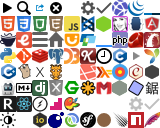
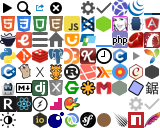
Add Rust documentation

Changed region(s): [[0.375, 0.5, 0.5, 0.625]]

diff --git a/assets/stylesheets/global/_icons.scss b/assets/stylesheets/global/_icons.scss
@@ -65,7 +65,7 @@
 ._icon-go:before            { background-position: -1rem -4rem; }
 ._icon-express:before       { background-position: -2rem -4rem; }
 ._icon-grunt:before         { background-position: -3rem -4rem; }
-
+._icon-rust:before          { background-position: -4rem -4rem; @extend %darkIconFix !optional; }
 ._icon-laravel:before       { background-position: -5rem -4rem; }
 ._icon-haskell:before       { background-position: -6rem -4rem; }
 ._icon-requirejs:before     { background-position: -7rem -4rem; }

diff --git a/assets/stylesheets/pages/_rust.scss b/assets/stylesheets/pages/_rust.scss
@@ -1,0 +1,10 @@
+._rust {
+  @extend %simple;
+
+  h4 { @extend %block-label; }
+  .docblock { margin-left: 1em; }
+
+  div.stability { margin-bottom: 1em; }
+  em.stab, span.stab { @extend %label; }
+  em.stab.unstable, span.stab.unstable { @extend %label-orange; }
+}

diff --git a/assets/stylesheets/application-dark.css.scss b/assets/stylesheets/application-dark.css.scss
@@ -62,6 +62,7 @@
         'pages/requirejs',
         'pages/rethinkdb',
         'pages/rfc',
+        'pages/rust',
         'pages/socketio',
         'pages/sphinx',
         'pages/underscore',

diff --git a/assets/stylesheets/application.css.scss b/assets/stylesheets/application.css.scss
@@ -62,6 +62,7 @@
         'pages/requirejs',
         'pages/rethinkdb',
         'pages/rfc',
+        'pages/rust',
         'pages/socketio',
         'pages/sphinx',
         'pages/underscore',

diff --git a/lib/docs/filters/rust/entries.rb b/lib/docs/filters/rust/entries.rb
@@ -1,0 +1,56 @@
+module Docs
+  class Rust
+    class EntriesFilter < Docs::EntriesFilter
+      def get_name
+        if slug.start_with?('book')
+          at_css("#toc a[href='#{File.basename(slug)}']").content
+        elsif slug.start_with?('reference')
+          'Reference'
+        else
+          name = at_css('h1.fqn .in-band').content.remove(/\A.+\s/)
+          mod = slug.split('/').first
+          name.prepend("#{mod}::") unless name.start_with?(mod)
+          name
+        end
+      end
+
+      PRIMITIVE_SLUG = /\A(\w+)\/(primitive)\./
+
+      def get_type
+        if slug.start_with?('book')
+          'Guide'
+        elsif slug.start_with?('reference')
+          'Reference'
+        else
+          path = name.split('::')
+          heading = at_css('h1.fqn .in-band').content.strip
+          if path.length > 2 || (path.length == 2 && (heading.start_with?('Module') || heading.start_with?('Primitive')))
+            path[0..1].join('::')
+          else
+            path[0]
+          end
+        end
+      end
+
+      def additional_entries
+        if slug.start_with?('book')
+          []
+        elsif slug.start_with?('reference')
+          css('#TOC > ul > li > a', '#TOC > ul > li > ul > li > a').map do |node|
+            name = node.content
+            name.sub! %r{(\d)\ }, '\1. '
+            name.sub! '10.0.', '10.'
+            id = node['href'].remove('#')
+            [name, id]
+          end
+        else
+          css('#methods + * + div > .method', '#required-methods + div > .method', '#provided-methods + div > .method').map do |node|
+            name = node.at_css('.fnname').content
+            name.prepend "#{self.name}::"
+            [name, node['id']]
+          end
+        end
+      end
+    end
+  end
+end

diff --git a/lib/docs/filters/rust/clean_html.rb b/lib/docs/filters/rust/clean_html.rb
@@ -1,0 +1,63 @@
+module Docs
+  class Rust
+    class CleanHtmlFilter < Filter
+      def call
+        if slug.start_with?('book')
+          book
+        elsif slug.start_with?('reference')
+          reference
+        else
+          api
+        end
+
+        css('.rusttest', 'hr').remove
+
+        css('.docblock > h1').each { |node| node.name = 'h4' }
+        css('h2.section-header').each { |node| node.name = 'h3' }
+        css('h1.section-header').each { |node| node.name = 'h2' }
+
+        css('> .impl-items', '> .docblock').each do |node|
+          node.before(node.children).remove
+        end
+
+        css('h1 > a', 'h2 > a', 'h3 > a', 'h4 > a', 'h5 > a').each do |node|
+          node.before(node.children).remove
+        end
+
+        css('pre > code').each do |node|
+          node.parent['class'] = node['class']
+          node.before(node.children).remove
+        end
+
+        css('pre').each do |node|
+          node.content = node.content
+        end
+
+        doc
+      end
+
+      def book
+        @doc = at_css('#page')
+      end
+
+      def reference
+        css('#versioninfo').remove
+      end
+
+      def api
+        @doc = at_css('#main')
+
+        css('.toggle-wrapper').remove
+
+        css('h1.fqn').each do |node|
+          node.content = node.at_css('.in-band').content
+        end
+
+        css('.stability .stab').each do |node|
+          node.name = 'span'
+          node.content = node.content
+        end
+      end
+    end
+  end
+end

diff --git a/lib/docs/scrapers/rust.rb b/lib/docs/scrapers/rust.rb
@@ -1,0 +1,48 @@
+module Docs
+  class Rust < UrlScraper
+    self.type = 'rust'
+    self.version = '1.0.0'
+    self.base_url = 'http://doc.rust-lang.org/'
+    self.root_path = 'book/index.html'
+    self.initial_paths = %w(
+      reference.html
+      collections/index.html
+      std/index.html
+      unicode/index.html)
+    self.links = {
+      home: 'http://www.rust-lang.org/',
+      code: 'https://github.com/rust-lang/rust'
+    }
+
+    html_filters.push 'rust/entries', 'rust/clean_html'
+
+    options[:only_patterns] = [
+      /\Abook\//,
+      /\Acollections\//,
+      /\Astd\//,
+      /\Aunicode\// ]
+
+    options[:skip] = %w(book/README.html)
+    options[:skip_patterns] = [/(?<!\.html)\z/]
+
+    options[:fix_urls] = ->(url) do
+      url.sub! %r{(#{Rust.base_url}.+/)\z}, '\1index.html'
+      url.sub! '/unicode/u_str', '/unicode/str/'
+      url
+    end
+
+    options[:attribution] = <<-HTML
+      &copy; 2011-2015 The Rust Project Developers<br>
+      Licensed under the Apache License, Version 2.0 or the MIT license, at your option.
+    HTML
+
+    private
+
+    REDIRECT_RGX = /http-equiv="refresh"/i
+    NOT_FOUND_RGX = /<title>Not Found<\/title>/
+
+    def process_response?(response)
+      !(response.body =~ REDIRECT_RGX || response.body =~ NOT_FOUND_RGX || response.body.blank?)
+    end
+  end
+end
